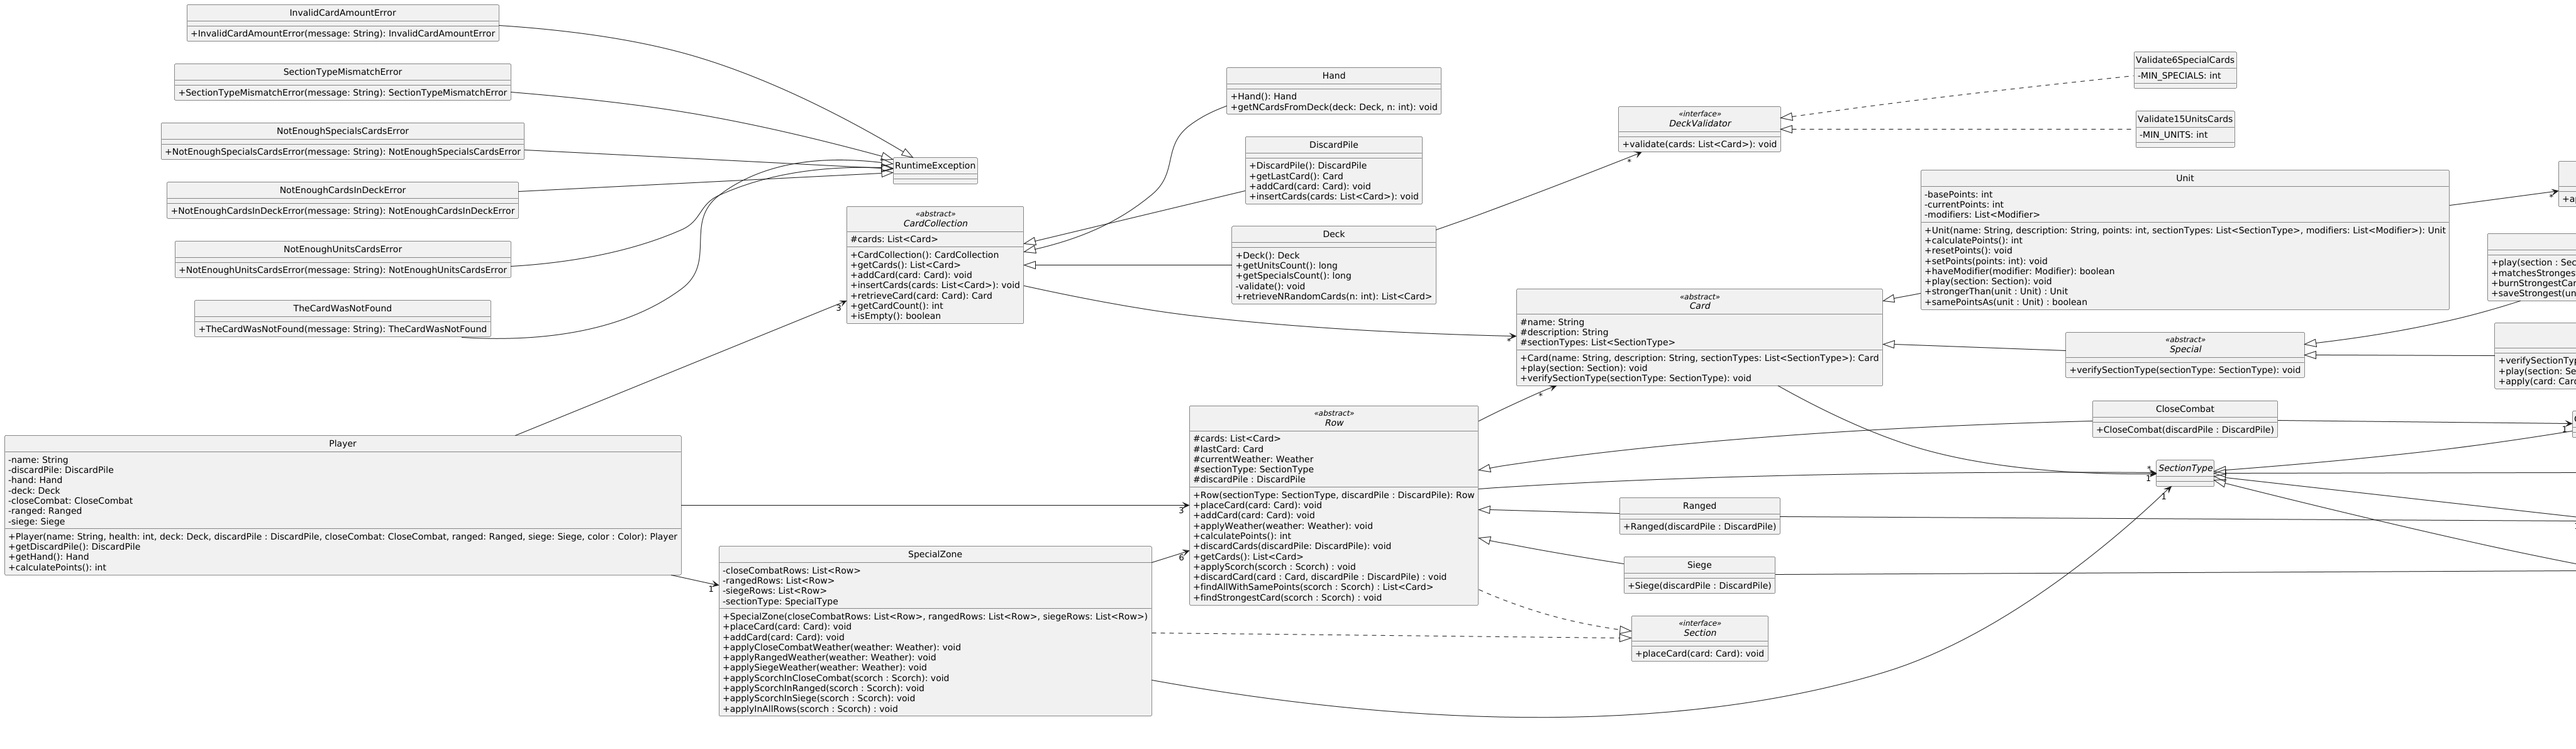
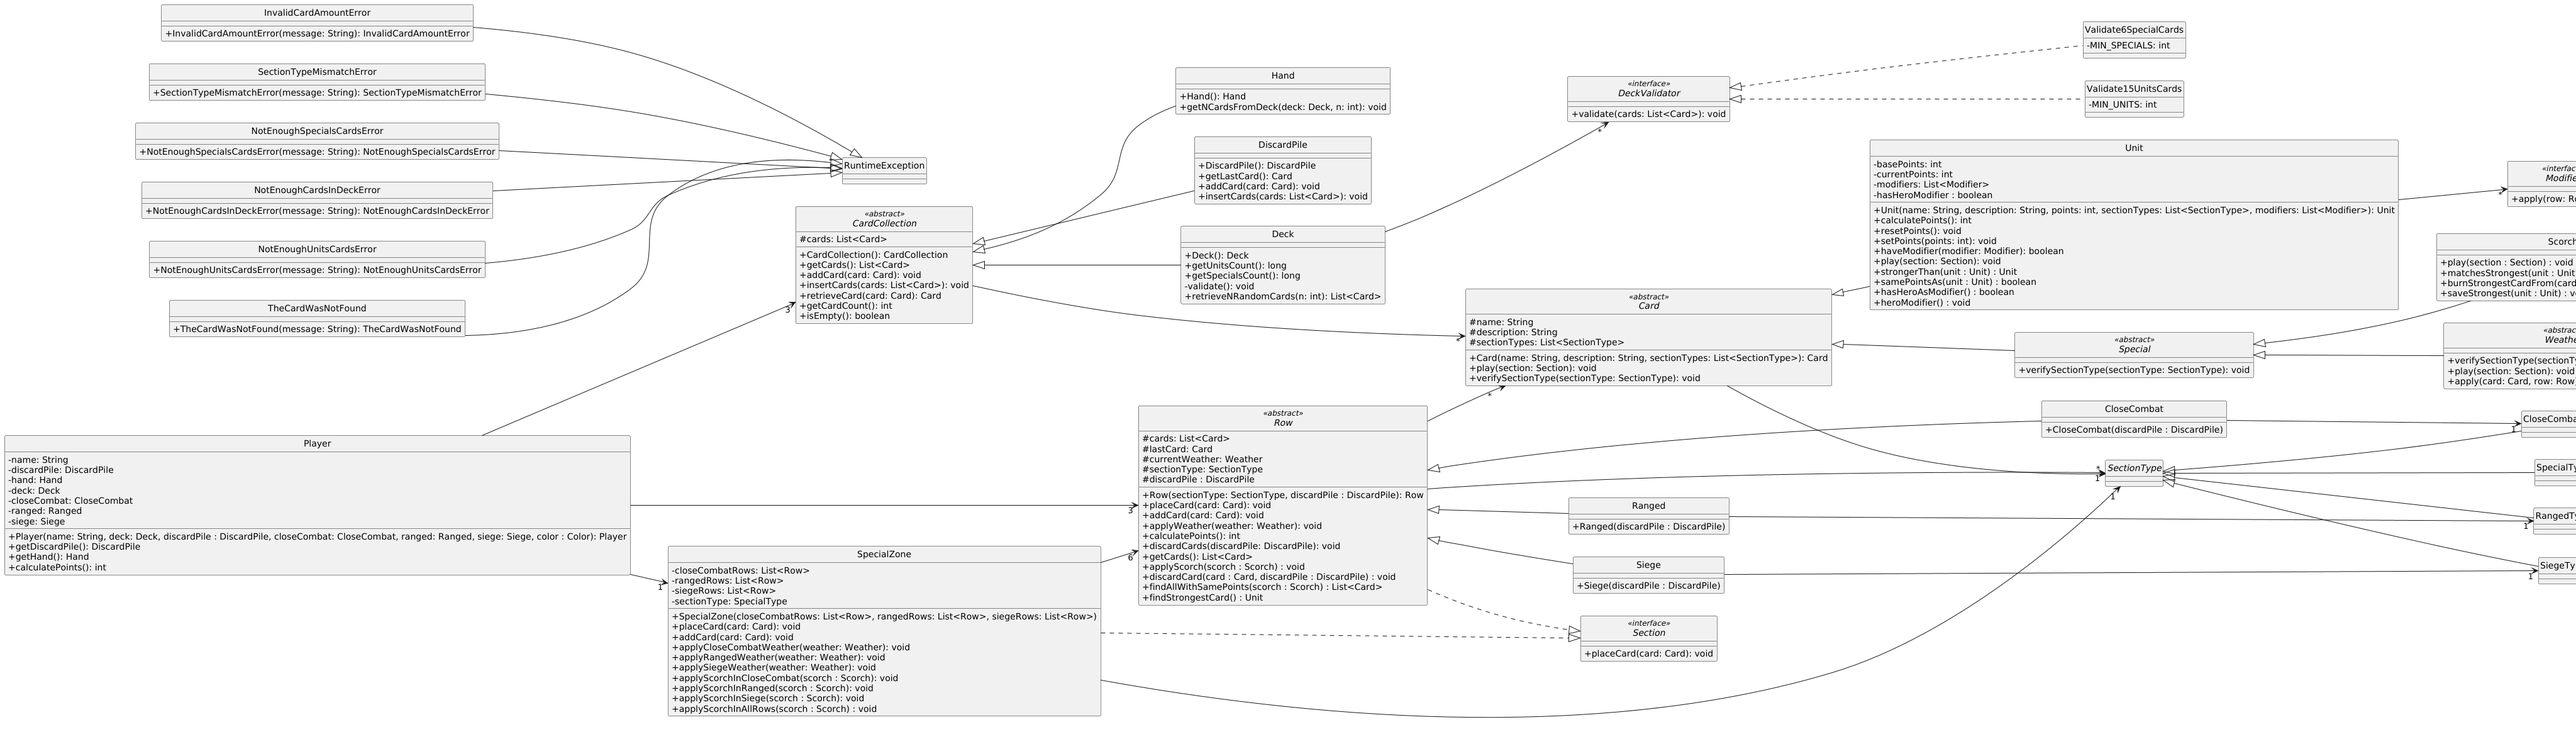
issue 30 - Añadir Modifier Legendaria: Verificar que no es afectada por otros modificadores y/o cartas especiales (#46)

diff --git a/src/main/test/edu/fiuba/algo3/modelo/cards/units/modifiers/HeroTest.java b/src/main/test/edu/fiuba/algo3/modelo/cards/units/modifiers/HeroTest.java
@@ -1,0 +1,118 @@
+package edu.fiuba.algo3.modelo.cards.units.modifiers;
+
+import edu.fiuba.algo3.modelo.cardcollections.DiscardPile;
+import edu.fiuba.algo3.modelo.cards.specials.MoraleBoost;
+import edu.fiuba.algo3.modelo.cards.specials.Scorch;
+import edu.fiuba.algo3.modelo.cards.specials.weathers.BitingFrost;
+import edu.fiuba.algo3.modelo.cards.units.Unit;
+import edu.fiuba.algo3.modelo.sections.SpecialZone;
+import edu.fiuba.algo3.modelo.sections.rows.CloseCombat;
+import edu.fiuba.algo3.modelo.sections.rows.Ranged;
+import edu.fiuba.algo3.modelo.sections.rows.Row;
+import edu.fiuba.algo3.modelo.sections.rows.Siege;
+import edu.fiuba.algo3.modelo.sections.types.CloseCombatType;
+import edu.fiuba.algo3.modelo.sections.types.RangedType;
+import edu.fiuba.algo3.modelo.sections.types.SiegeType;
+import org.junit.jupiter.api.BeforeEach;
+import org.junit.jupiter.api.Test;
+import java.util.List;
+
+import static org.junit.jupiter.api.Assertions.assertEquals;
+import static org.junit.jupiter.api.Assertions.assertTrue;
+
+public class HeroTest {
+    private Unit cartaConLegendaria;
+    private CloseCombat closeCombat1;
+    private Ranged ranged1;
+    private Siege siege1;
+    private CloseCombat closeCombat2;
+    private Ranged ranged2;
+    private Siege siege2;
+
+    private int puntosEsperados;
+
+    @BeforeEach
+    void setUp() {
+        cartaConLegendaria = new Unit("cerys", "descripcion", 10, List.of(new CloseCombatType()), List.of(new Hero()));
+        DiscardPile discardPile1 = new DiscardPile();
+        DiscardPile discardPile2 = new DiscardPile();
+        closeCombat1 = new CloseCombat(discardPile1);
+        ranged1 = new Ranged(discardPile1);
+        siege1 = new Siege(discardPile1);
+        closeCombat2 = new CloseCombat(discardPile2);
+        ranged2 = new Ranged(discardPile2);
+        siege2 = new Siege(discardPile2);
+
+        puntosEsperados = 10;
+    }
+
+    @Test
+    public void testSeJuegaUnaCartaConModificardorLegendariaCorrectamente() {
+        closeCombat1.placeCard(cartaConLegendaria);
+
+        assertEquals(puntosEsperados, closeCombat1.calculatePoints());
+    }
+
+    @Test
+    public void testCartaConModificadorLegendariaNoEsAfectadaPorOtroModificador() {
+        MoraleBoostModifier modifierMoral = new MoraleBoostModifier();
+        Unit cardMoraleBoost = new Unit("Nombre", "Descripcion", 10, new CloseCombatType(), List.of(modifierMoral));
+
+        closeCombat1.placeCard(cartaConLegendaria);
+        closeCombat1.placeCard(cardMoraleBoost);
+
+        assertEquals(puntosEsperados, cartaConLegendaria.calculatePoints());
+    }
+
+    @Test
+    public void testCartaConModificadorLegendariaNoEsAfectadaPorCartaEspecial() {
+        MoraleBoost especial = new MoraleBoost("MoraleBoost", "X2", List.of(new CloseCombatType(), new RangedType(), new SiegeType()));
+
+        closeCombat1.placeCard(cartaConLegendaria);
+        especial.play(closeCombat1);
+
+        assertEquals(puntosEsperados, cartaConLegendaria.calculatePoints());
+    }
+
+    @Test
+    public void testCartaConModificadorLegendariaNoEsAfectadaPorCartaClima() {
+        BitingFrost frostWeather = new BitingFrost("Escarcha", "Reduce todas las unidades cuerpo a cuerpo a 1 punto");
+
+        closeCombat1.placeCard(cartaConLegendaria);
+        frostWeather.play(new SpecialZone(
+                closeCombat1, ranged1, siege1,
+                closeCombat2, ranged2, siege2
+        ));
+
+        assertEquals(puntosEsperados, cartaConLegendaria.calculatePoints());
+    }
+
+    @Test
+    public void testCartaConModificadorLegendariaNoEsAfectadaPorCartasEspeciales() {
+        MoraleBoost especial = new MoraleBoost("MoraleBoost", "X2", List.of(new CloseCombatType(), new RangedType(), new SiegeType()));
+        BitingFrost frostWeather = new BitingFrost("Escarcha", "Reduce todas las unidades cuerpo a cuerpo a 1 punto");
+
+        closeCombat1.placeCard(cartaConLegendaria);
+        especial.play(closeCombat1);
+        frostWeather.play(new SpecialZone(
+                closeCombat1, ranged1, siege1,
+                closeCombat2, ranged2, siege2
+        ));
+
+        assertEquals(puntosEsperados, cartaConLegendaria.calculatePoints());
+    }
+
+    @Test
+    public void testCartaConModificadorLegendariaNoEsQuemadaPorUnaTierraArrasada() {
+        Scorch tierraArrasada = new Scorch("Tierra arrasada", "Descripcion", List.of(new CloseCombatType(), new RangedType(), new SiegeType()));
+
+        closeCombat1.placeCard(cartaConLegendaria);
+
+        tierraArrasada.play(new SpecialZone(
+                closeCombat1, ranged1, siege1,
+                closeCombat2, ranged2, siege2
+        ));
+
+        assertTrue(closeCombat1.containsCard(cartaConLegendaria));
+    }
+}

diff --git a/src/main/java/edu/fiuba/algo3/modelo/sections/rows/Row.java b/src/main/java/edu/fiuba/algo3/modelo/sections/rows/Row.java
@@ -13,6 +13,7 @@ import edu.fiuba.algo3.modelo.colors.PlayerColor;
 
 import java.util.ArrayList;
 import java.util.List;
+import java.util.stream.Collectors;
 
 public abstract class Row implements Section {
     protected List<Card> cards = new ArrayList<>();
@@ -60,25 +61,27 @@ public abstract class Row implements Section {
     }
 
     public void applyScorch(Scorch scorch) {
-        List<Card> strongest = this.findAllWithSamePoints(scorch);
+        List<Card> strongest = this.findAllCardsWithoutHeroModifierWithSamePoints(scorch);
         for (Card c : strongest) {
             scorch.burnStrongestCardFrom(c, this);
         }
     }
 
-    public void findStrongestCard(Scorch scorch) {
-        if(!cards.isEmpty()) {
-            Unit max = (Unit) cards.get(0);
-            for (Card card : cards) {
+    public void findStrongestCardWithoutHeroModifier(Scorch scorch) {
+        List<Card> cardsWithoutHeroModifier = cards.stream().filter(c -> !((Unit) c).hasHeroAsModifier()).collect(Collectors.toList());
+        if (!cardsWithoutHeroModifier.isEmpty()) {
+            Unit max = (Unit) cardsWithoutHeroModifier.get(0);
+            for (Card card : cardsWithoutHeroModifier) {
                 max = max.strongerThan((Unit) card);
             }
             scorch.saveStrongest(max);
         }
     }
 
-    public List<Card> findAllWithSamePoints(Scorch scorch) {
+    public List<Card> findAllCardsWithoutHeroModifierWithSamePoints(Scorch scorch) {
         List<Card> wanted = new ArrayList<>();
-        for (Card card : cards) {
+        List<Card> cardsWithoutHeroModifier = cards.stream().filter(c -> !((Unit) c).hasHeroAsModifier()).collect(Collectors.toList());
+        for (Card card : cardsWithoutHeroModifier) {
             if (scorch.matchesStrongest((Unit) card)) {
                 wanted.add(card);
             }
@@ -89,6 +92,10 @@ public abstract class Row implements Section {
     public void discardCard(Card card) {
         discardPile.addCard(card);
         cards.remove(card);
+    }
+
+    public boolean containsCard(Card card) {
+        return this.cards.contains(card);
     }
 
     public int calculatePoints() {
@@ -115,12 +122,8 @@ public abstract class Row implements Section {
         this.playerColor = playerColor;
     }
 
-
     public boolean haveSameSectionType(Card card) {
         return card.haveSectionType(sectionType);
-    }
-    public boolean containsCard(Card card) {
-        return this.cards.contains(card);
     }
 
     public boolean containsCards(List<Card> cards){

diff --git a/src/main/java/edu/fiuba/algo3/modelo/cards/units/Unit.java b/src/main/java/edu/fiuba/algo3/modelo/cards/units/Unit.java
@@ -3,24 +3,28 @@ package edu.fiuba.algo3.modelo.cards.units;
 import edu.fiuba.algo3.modelo.cards.units.modifiers.Spy;
 import edu.fiuba.algo3.modelo.colors.PlayerColor;
 import edu.fiuba.algo3.modelo.cards.Card;
+import edu.fiuba.algo3.modelo.cards.units.modifiers.Hero;
 import edu.fiuba.algo3.modelo.cards.units.modifiers.Modifier;
 import edu.fiuba.algo3.modelo.errors.SectionPlayerMismatchError;
 import edu.fiuba.algo3.modelo.sections.rows.Row;
 import edu.fiuba.algo3.modelo.sections.Section;
 import edu.fiuba.algo3.modelo.sections.types.SectionType;
 
+import java.util.ArrayList;
 import java.util.List;
 
 public class Unit extends Card {
     private final int basePoints;
     private int currentPoints;
     private List<Modifier> modifiers;
+    private boolean hasHeroModifier;
 
     public Unit(String name, String description, int points, List<SectionType> sectionTypes, List<Modifier> modifiers) {
         super(name, description, sectionTypes);
         this.basePoints = points;
         this.currentPoints = points;
         this.modifiers = modifiers;
+        checkHeroModifier();
     }
 
     public Unit(String name, String description, int points, SectionType sectionType, List<Modifier> modifiers) {
@@ -28,6 +32,7 @@ public class Unit extends Card {
         this.basePoints = points;
         this.currentPoints = points;
         this.modifiers = modifiers;
+        checkHeroModifier();
     }
 
     @Override
@@ -50,6 +55,21 @@ public class Unit extends Card {
         }
     }
 
+    private void checkHeroModifier() {
+        this.hasHeroModifier = false;
+
+        for (Modifier modifier : modifiers) {
+            if (modifier instanceof Hero) {
+                this.hasHeroModifier = true;
+                break;
+            }
+        }
+    }
+
+    public boolean hasHeroAsModifier() {
+        return hasHeroModifier;
+    }
+
     public int calculatePoints() {
         return currentPoints;
     }
@@ -59,7 +79,9 @@ public class Unit extends Card {
     }
 
     public void setPoints(int points) {
-        currentPoints = points;
+        if (!hasHeroModifier) {
+            currentPoints = points;
+        }
     }
 
     public boolean haveModifier(Modifier modifierInstance) {

diff --git a/src/main/java/edu/fiuba/algo3/modelo/cards/units/modifiers/MoraleBoostModifier.java b/src/main/java/edu/fiuba/algo3/modelo/cards/units/modifiers/MoraleBoostModifier.java
@@ -7,24 +7,6 @@ import edu.fiuba.algo3.modelo.sections.rows.Row;
 import java.util.List;
 
 public class MoraleBoostModifier implements Modifier{
-    /*
-    private Row[] rows;
-    public MoraleBoostModifier(Row... rows) {
-        this.rows = rows;
-    }
-
-    @Override
-    public void apply(Row row) {
-        if(Arrays.stream(rows).noneMatch(row1 -> row1.equals(row))) throw new CardPlayInOpponentPlaceException("Morale Boost can only be played in your own rows.");
-        Unit thisCard = row.getLastCard();
-        List<Card> cards = row.getCards();
-        for (Card card : cards) {
-            int points = ((Unit) card).calculatePoints();
-            if(!thisCard.equals(card)) ((Unit) card).setPoints(points + 1);
-        }
-    }
-    */
-
     @Override
     public void apply(Row row) {
         Unit thisCard = row.getLastCard();

diff --git a/src/main/java/edu/fiuba/algo3/modelo/sections/SpecialZone.java b/src/main/java/edu/fiuba/algo3/modelo/sections/SpecialZone.java
@@ -72,15 +72,15 @@ public class SpecialZone implements Section {
 
     public void applyScorchInAllRows(Scorch scorch) {
         for (CloseCombat row : closeCombatRows) {
-            row.findStrongestCard(scorch);
+            row.findStrongestCardWithoutHeroModifier(scorch);
         }
 
         for (Ranged row : rangedRows) {
-            row.findStrongestCard(scorch);
+            row.findStrongestCardWithoutHeroModifier(scorch);
         }
 
         for (Siege row : siegeRows) {
-            row.findStrongestCard(scorch);
+            row.findStrongestCardWithoutHeroModifier(scorch);
         }
 
         applyScorchInCloseCombat(scorch);

diff --git a/src/main/test/edu/fiuba/algo3/modelo/sections/RowTest.java b/src/main/test/edu/fiuba/algo3/modelo/sections/RowTest.java
@@ -54,7 +54,7 @@ public class RowTest {
 
     @Test
     public void testUnaUnidadEsColocadaEnEspacioRangedRow() {
-         int puntosBase = 5;
+        int puntosBase = 5;
         Unit arquero = new Unit("arquero", "tira flechas", puntosBase, List.of(new RangedType()), List.of() );
         arquero.setColor(new Blue());
 

diff --git a/src/main/java/edu/fiuba/algo3/modelo/cards/units/modifiers/Hero.java b/src/main/java/edu/fiuba/algo3/modelo/cards/units/modifiers/Hero.java
@@ -1,0 +1,10 @@
+package edu.fiuba.algo3.modelo.cards.units.modifiers;
+
+import edu.fiuba.algo3.modelo.sections.rows.Row;
+
+public class Hero implements Modifier {
+    @Override
+    public void apply(Row row) {
+
+    }
+}
